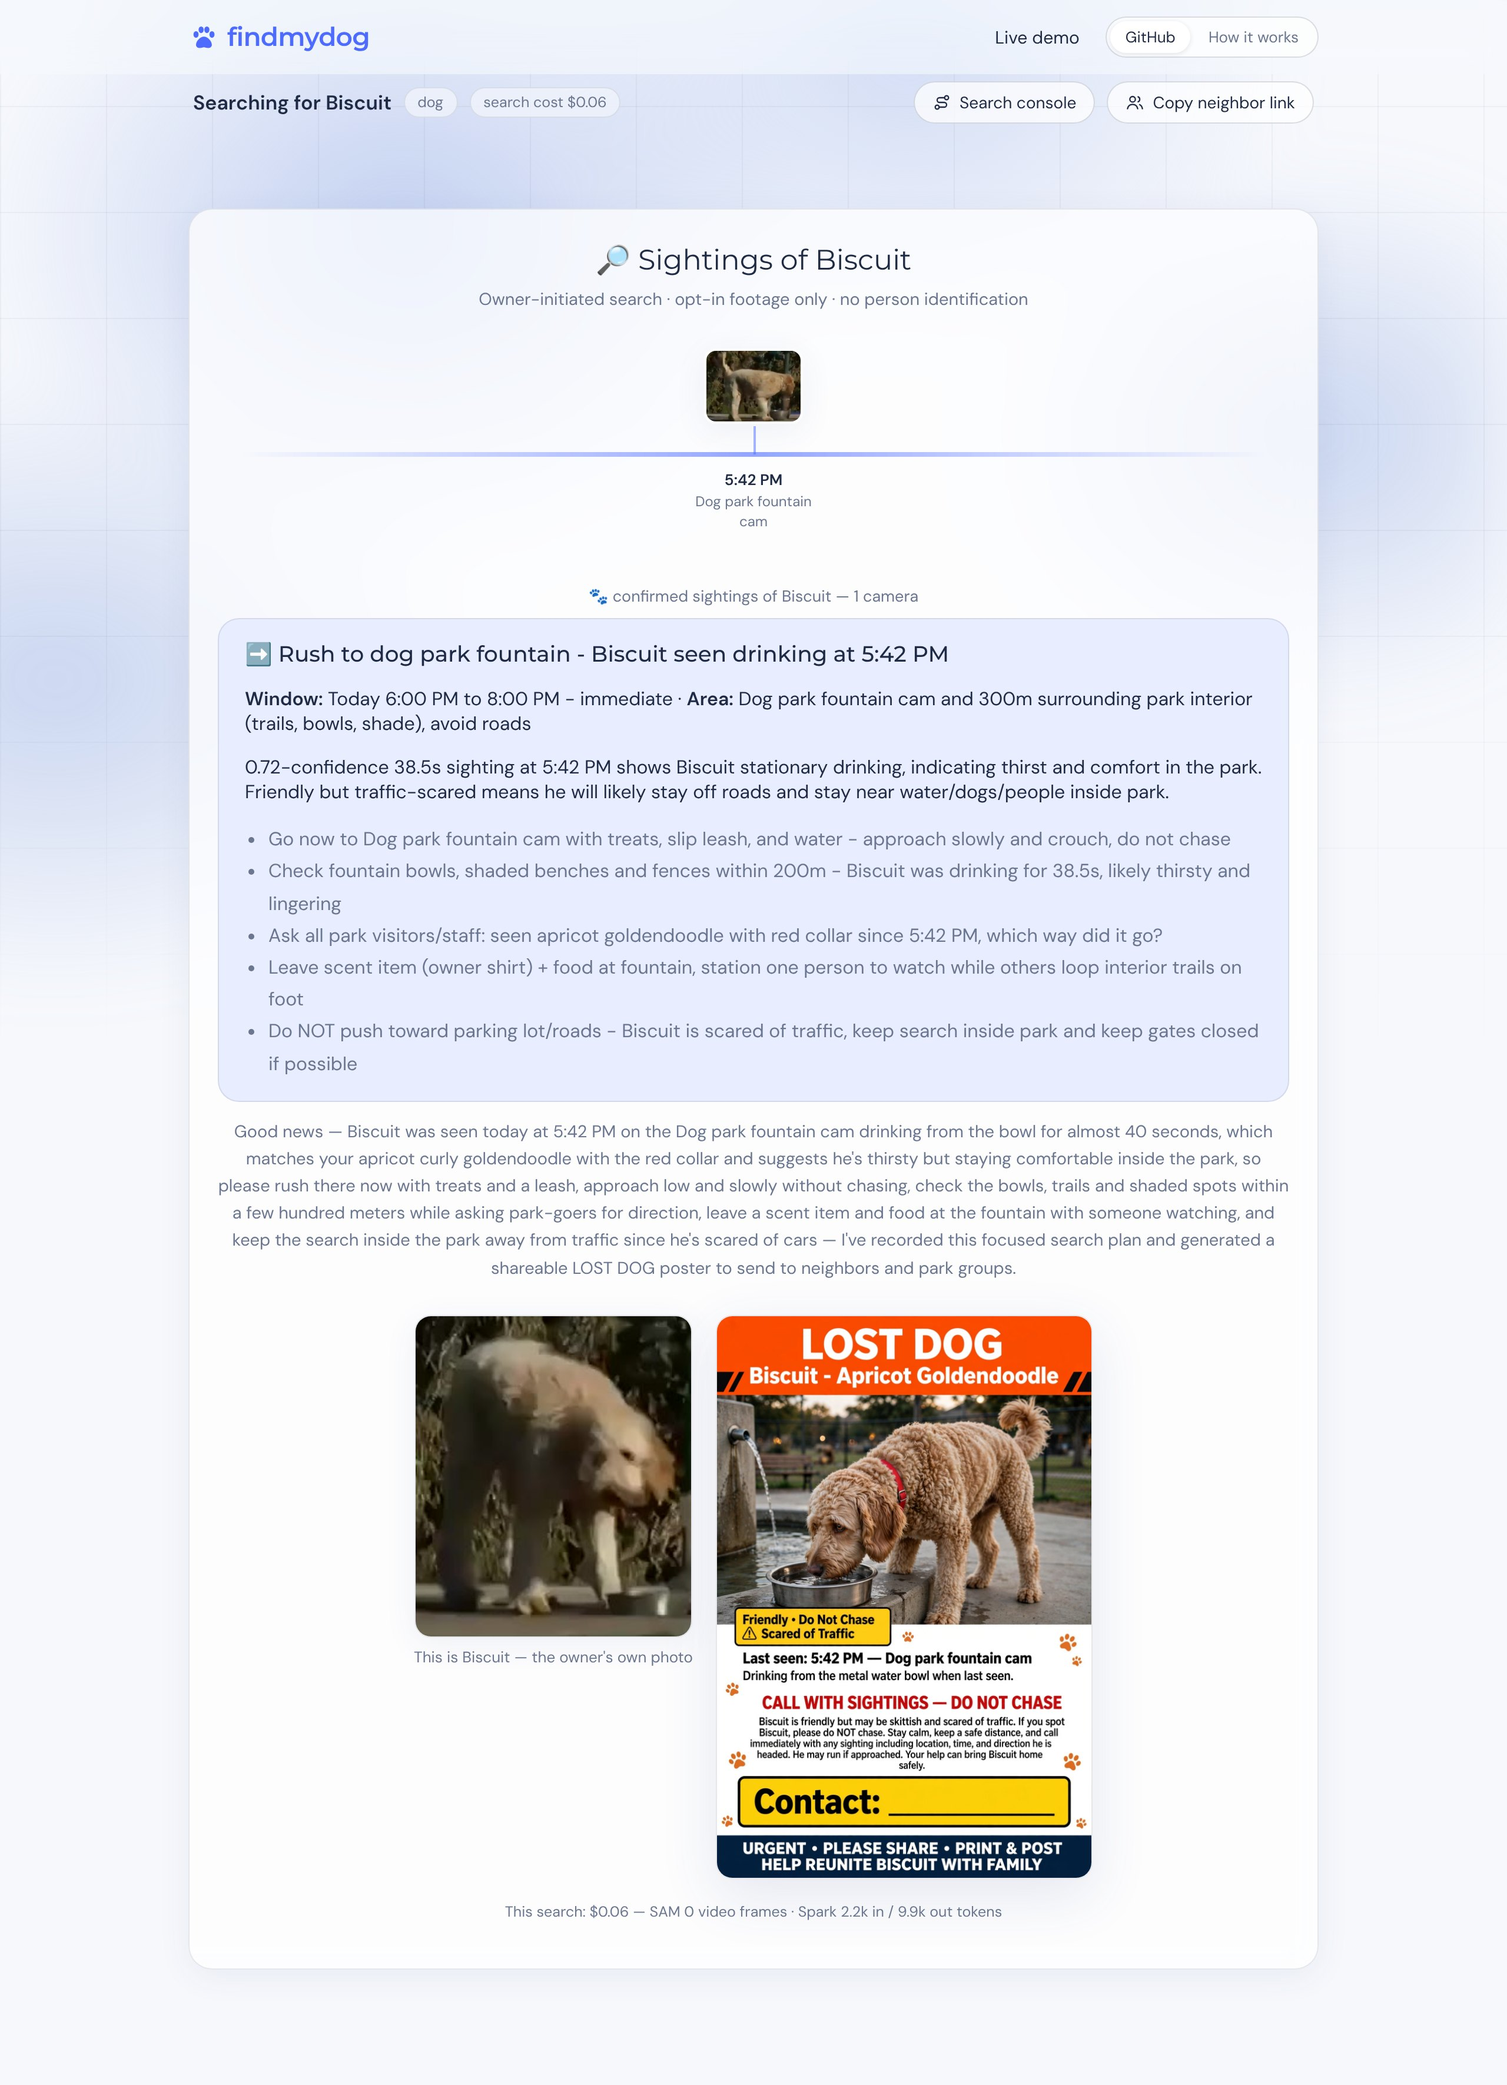
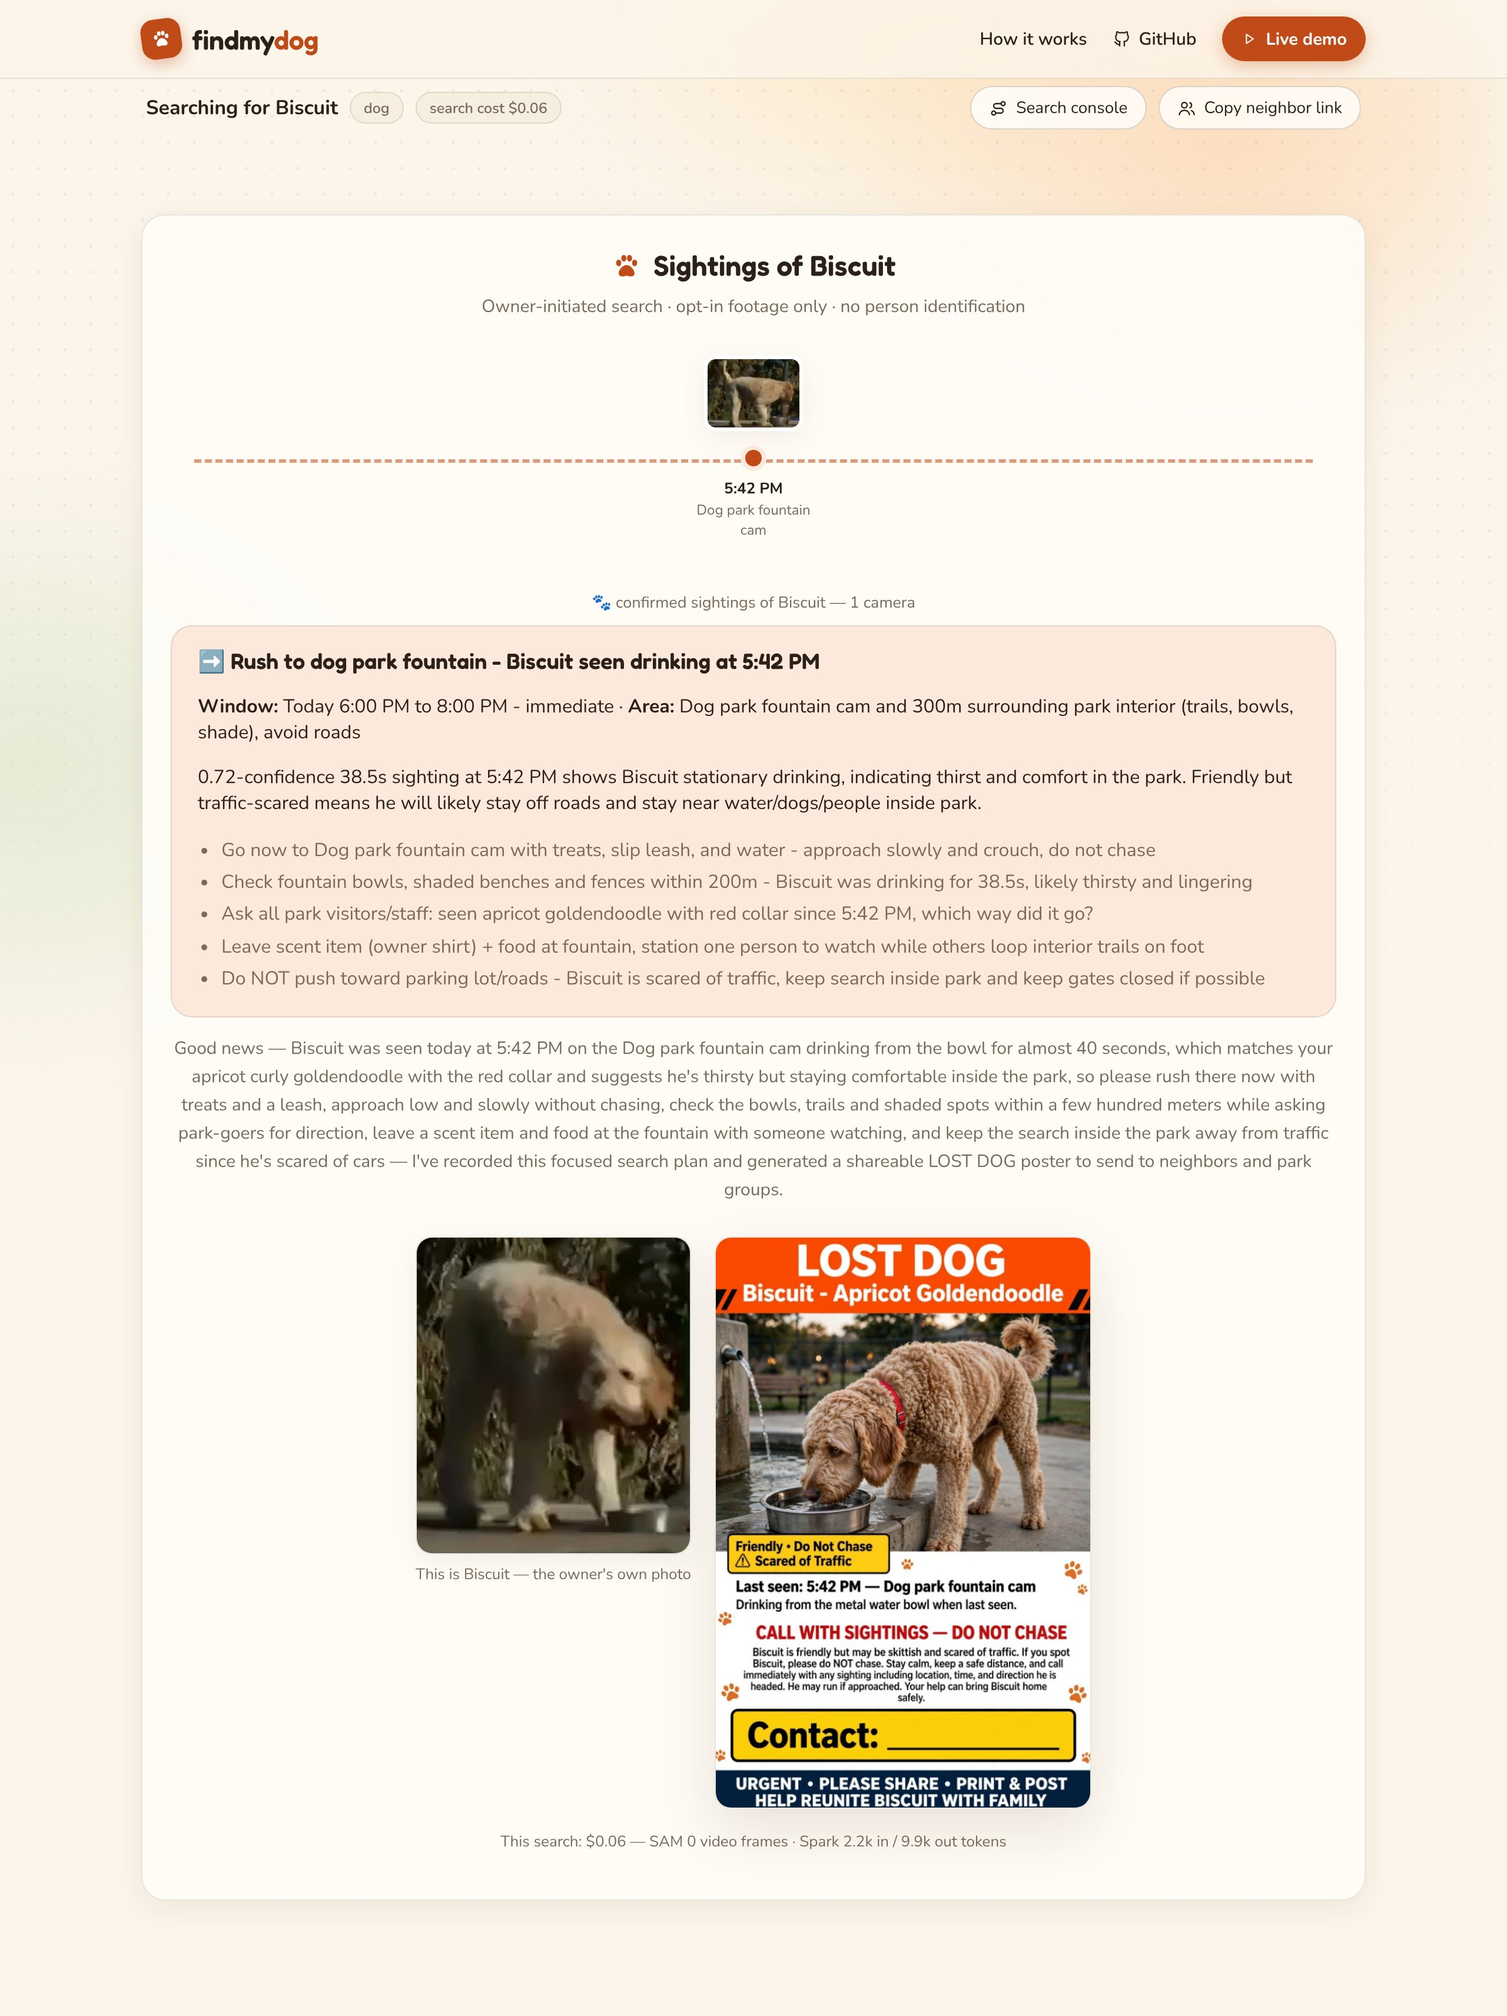
Evidence in the current UI: replay the recorded real run; README upgrades
- evidence/replay_real_ui.py loads the recorded real run (real_ui_state.json)
  into a local Worker with no model calls; capture_real_ui.cjs --replay
  re-photographs it. Replayed state matches the recording field for field.
- Re-captured real-00..04, the stranger view and the owner-vs-stranger
  comparison in the current UI. Images are the run's own: exact track
  frames, SAM's doorbell box (plate blurred), and the Muse Image poster cut
  from the original capture (evidence/img/replay/).
- README: pipeline diagram (Mermaid), "Designed for a worried owner" section
  with light/dark/phone views, a real/replayed/mock evidence key, and replay
  commands in the reproduce section. EVIDENCE and HANDOFF updated to match.

diff --git a/evidence/replay_real_ui.py b/evidence/replay_real_ui.py
@@ -1,0 +1,77 @@
+"""Replay the recorded real-model run through the current UI, without calling any model.
+
+The real run on 4 Nov (evidence/capture_real_ui.cjs against the live Meta API) saved its final report state to
+evidence/real_ui_state.json: SAM 3.1 tracks, all 7 Muse Spark verdicts with their rationales, the Spark plan and
+summary, and the metered cost. After the UI redesign, this script loads that recorded state, unchanged, into a
+local Worker so the same real outputs can be photographed in the current UI.
+
+Images used are the real ones from that run, already in this repo:
+  - track stills: evidence/img/crops/dogpark_<track>_<frame>.jpg (the exact frames the real run used; <= 180 px)
+  - doorbell still: evidence/img/replay/doorbell_t0_f34.jpg, frame 3.4 s inside SAM's box, cut from
+    evidence/img/sam-doorbell-detection.jpg (number plate blurred)
+  - pet photo: production/assets/owner_reference.jpg (frame t8_f335, as in the real run)
+  - poster: evidence/img/replay/muse-image-poster.png, the real run's Muse Image poster, cut from the original
+    plan screenshot (the full-size file was not kept)
+
+Only the owner's confirm/reject clicks are replayed through the UI; those call no model.
+
+    npx wrangler dev --local --port 8799 --var FMD_MOCK:1 &
+    python3 evidence/replay_real_ui.py <scratch_dir> http://localhost:8799
+    node evidence/capture_real_ui.cjs <scratch_dir> evidence/img --replay
+"""
+import copy, json, subprocess, sys, urllib.request
+
+SP, BASE = sys.argv[1], sys.argv[2]
+REC = json.load(open('evidence/real_ui_state.json'))
+boundary = 'fmdboundary'
+
+
+def multipart(fields, files):
+    body = b''
+    for k, v in fields.items():
+        body += f'--{boundary}\r\nContent-Disposition: form-data; name="{k}"\r\n\r\n{v}\r\n'.encode()
+    for k, (name, data, ctype) in files.items():
+        body += f'--{boundary}\r\nContent-Disposition: form-data; name="{k}"; filename="{name}"\r\nContent-Type: {ctype}\r\n\r\n'.encode() + data + b'\r\n'
+    return body + f'--{boundary}--\r\n'.encode()
+
+
+req = urllib.request.Request(f'{BASE}/api/reports', method='POST',
+    data=multipart({'pet_name': REC['pet']['name'], 'species': REC['pet']['species'], 'description': REC['pet']['description']},
+                   {'photo': ('biscuit.jpg', open('production/assets/owner_reference.jpg', 'rb').read(), 'image/jpeg')}),
+    headers={'Content-Type': f'multipart/form-data; boundary={boundary}'})
+rep = json.load(urllib.request.urlopen(req))
+json.dump(rep, open(f'{SP}/report.json', 'w'))
+rid, tok = rep['report_id'], rep['owner_token']
+
+
+def wr(*args):
+    return subprocess.run(['npx', 'wrangler', *args, '--local'], capture_output=True, text=True, check=True).stdout
+
+
+state = json.loads(json.loads(wr('d1', 'execute', 'findmydog', '--json', '--command', f"SELECT state FROM reports WHERE id='{rid}'"))[0]['results'][0]['state'])
+keep_photo = state['pet']['photo_key']
+new = copy.deepcopy(REC)
+new['report_id'], new['created_at'] = rid, state['created_at']
+new['pet']['photo_key'] = keep_photo
+for c in new['clips']:
+    c['media_url'] = f"{BASE}/api/reports/{rid}/clips/{c['clip_id']}"
+for m in new['matches']:
+    m['confirmed'] = None          # the owner's decisions are replayed through the UI
+new['poster_key'] = f'{rid}/poster'
+for k in ('photo_url', 'poster_url', 'demo'):
+    new.pop(k, None)
+open(f'{SP}/replay.sql', 'w').write(f"UPDATE reports SET state = '{json.dumps(new).replace(chr(39), chr(39) * 2)}' WHERE id = '{rid}';")
+wr('d1', 'execute', 'findmydog', '--file', f'{SP}/replay.sql')
+
+
+def put(cid, oid, path):
+    r = urllib.request.Request(f'{BASE}/api/reports/{rid}/stills/{cid}/{oid}', data=open(path, 'rb').read(), method='PUT', headers={'X-Owner-Token': tok})
+    return urllib.request.urlopen(r).status
+
+
+stills = {8: 't8_f351', 9: 't9_f383', 6: 't6_f241', 14: 't14_f572', 7: 't7_f308', 12: 't12_f442'}   # as in seed_real_report.py
+for oid, f in stills.items():
+    assert put('parkcam01', oid, f'evidence/img/crops/dogpark_{f}.jpg') == 200
+assert put('elmdoor01', 0, 'evidence/img/replay/doorbell_t0_f34.jpg') == 200
+wr('r2', 'object', 'put', f'findmydog-media/{rid}/poster', '--file', 'evidence/img/replay/muse-image-poster.png', '--content-type', 'image/png')
+print('replayed', rid)

diff --git a/README.md b/README.md
@@ -56,7 +56,7 @@
 
 ## Contents
 
-[The problem](#-the-problem) · [How it works](#-how-it-works) · [The Meta stack](#-the-meta-stack) · [See it run](#-see-it-run-on-real-models) · [Results](#-results) · [Privacy](#-privacy-and-access-control) · [Why not Ring?](#-why-not-just-ring-search-party) · [Architecture](#-architecture) · [Unit economics](#-unit-economics) · [Bugs we caught](#-bugs-the-evidence-exposed-all-fixed) · [Limitations](#-limitations-read-before-quoting-the-numbers) · [Run it](#-run-it) · [Reproduce](#-reproduce-every-number) · [Judging criteria](#-how-this-meets-the-judging-criteria) · [Author](#-author)
+[The problem](#-the-problem) · [How it works](#-how-it-works) · [The Meta stack](#-the-meta-stack) · [See it run](#-see-it-run-on-real-models) · [Design](#-designed-for-a-worried-owner) · [Results](#-results) · [Privacy](#-privacy-and-access-control) · [Why not Ring?](#-why-not-just-ring-search-party) · [Architecture](#-architecture) · [Unit economics](#-unit-economics) · [Bugs we caught](#-bugs-the-evidence-exposed-all-fixed) · [Limitations](#-limitations-read-before-quoting-the-numbers) · [Run it](#-run-it) · [Reproduce](#-reproduce-every-number) · [Judging criteria](#-how-this-meets-the-judging-criteria) · [Author](#-author)
 
 ---
 
@@ -83,6 +83,25 @@ past**. Nobody knows it yet, the clips are spread across a dozen brands, and nob
 | **6** | Spark tool loop | Reads the confirmed sightings, **decides** to call `suggest_next_search` (where to look next, and why) and `make_poster` (*Muse Image*). |
 | **7** | The street | Gets a **share page**: a sighting timeline, the next-search plan, the owner's real photo next to the generated poster, and the cost meter. |
 
+```mermaid
+flowchart LR
+  O([Owner: photo + description + voice note]) --> R[Report]
+  N([Neighbours: clips from any camera]) --> C[Clips]
+  R --> V[Muse Voice Transcribe<br/>search brief]
+  C --> S[SAM 3.1<br/>every animal, persistent IDs]
+  S --> M[Muse Spark<br/>verdict + reasons per track]
+  R -- photo + description --> M
+  V --> M
+  V -.-> T
+  M --> H{Owner confirms?}
+  H -- yes --> T[Spark tool loop]
+  H -- no --> X[Discarded]
+  T --> P[suggest_next_search<br/>where to look next]
+  T --> I[make_poster<br/>Muse Image]
+  P --> SH([Share page: timeline + plan + poster])
+  I --> SH
+```
+
 > **Output:** not a "possible match" ping, but an **evidence-linked sighting timeline, a concrete next-search plan, and a printable alert poster.**
 
 ## 🧠 The Meta stack
@@ -99,9 +118,13 @@ past**. Nobody knows it yet, the clips are spread across a dozen brands, and nob
 
 ## 🎬 See it run on real models
 
-Everything below was produced **live by SAM 3.1, Muse Spark and Muse Image through the product UI**
-([`capture_real_ui.cjs`](evidence/capture_real_ui.cjs)). Nothing is mocked. These four captures were taken on 4 Nov,
-before the UI moved to its current warm theme; the pipeline and its outputs are unchanged.
+Every verdict, rationale, plan and poster below was produced **live by SAM 3.1, Muse Spark and Muse Image** on
+4 Nov, through the product UI ([`capture_real_ui.cjs`](evidence/capture_real_ui.cjs)). Nothing is mocked.
+
+> **Shown in the current UI.** After the redesign, that recorded run ([`real_ui_state.json`](evidence/real_ui_state.json))
+> was replayed into a local Worker by [`replay_real_ui.py`](evidence/replay_real_ui.py), and the same capture script
+> photographed it. No model was called during the replay, and the outputs are unchanged: the replayed state matches the
+> recording field for field. Only the owner's confirm and reject clicks were made again.
 
 <table>
 <tr>
@@ -141,6 +164,19 @@ before the UI moved to its current warm theme; the pipeline and its outputs are 
 Full console: [`real-00-console-full.jpg`](evidence/img/real-00-console-full.jpg) · final report state:
 [`real_ui_state.json`](evidence/real_ui_state.json) · per-run numbers: [`benchmark-summary.txt`](evidence/logs/benchmark-summary.txt)
 
+## 🎨 Designed for a worried owner
+
+The report form is a **lost-pet poster**: a photo slot, the pet's name, species, a description and a voice note, then
+one button. Every tracked animal keeps **one colour across the whole search**, in the style of SAM's own mask
+overlays, so "track #8" in the footage is the same pink card in the match list. Light and dark modes and phone
+layouts are built in, and buttons meet WCAG AA contrast.
+
+| Light | Dark | Phone |
+|---|---|---|
+| <img src="evidence/img/app-landing-light.jpg" alt="Landing page, light mode"> | <img src="evidence/img/app-landing-dark.jpg" alt="Landing page, dark mode"> | <img src="evidence/img/app-landing-phone.png" alt="Landing page on a phone" width="200"> |
+
+<img src="evidence/img/app-how-it-works.jpg" alt="How it works: four numbered steps, with SAM-style coloured track chips on the SAM step">
+
 ## 📊 Results
 
 Measured on **4 Nov 2026** against the **live Meta API** using **the production code path**:
@@ -148,6 +184,14 @@ Measured on **4 Nov 2026** against the **live Meta API** using **the production 
 prompts ([`prompts.ts`](worker/src/prompts.ts)) and model clients ([`meta.ts`](worker/src/meta.ts)). Charts are
 generated from the raw JSON by [`evidence/build.py`](evidence/build.py). **No number is typed in by hand.**
 Full write-up with every chart: **[EVIDENCE.md](EVIDENCE.md)**.
+
+**How to read the evidence:**
+
+| Label | Meaning |
+|---|---|
+| **Real** | Live Meta API through the production code path. All numbers, verdicts, plans and posters in this README |
+| **Replayed** | A recorded real run shown again in the current UI, with no model calls ([`replay_real_ui.py`](evidence/replay_real_ui.py)) |
+| **Mock** | Deterministic simulation (`FMD_MOCK=1`), used for CI's end-to-end test and the landing-page screenshots (which show no model output). Never used for a quality number |
 
 ### 1. Matching: does the owner see the right animal first?
 
@@ -425,6 +469,11 @@ npx wrangler dev --port 8788 --local &
 python3 evidence/seed_real_report.py /tmp http://localhost:8788
 node evidence/capture_real_ui.cjs /tmp evidence/img
 bash evidence/access_checks.sh http://localhost:8788 <report_id> <owner_token> <DEMO_REPORT_ID>
+
+# Re-photograph the recorded real run in the current UI (no model calls)
+npx wrangler dev --local --port 8799 --var FMD_MOCK:1 &
+python3 evidence/replay_real_ui.py /tmp http://localhost:8799
+APP=http://localhost:8799 node evidence/capture_real_ui.cjs /tmp evidence/img --replay
 
 # Charts, CSVs and screenshots
 python3 evidence/build.py && node evidence/shoot.cjs http://localhost:8788 && python3 evidence/compose.py

diff --git a/EVIDENCE.md b/EVIDENCE.md
@@ -87,8 +87,12 @@ All tracks: [`evidence/data/sam_tracks.csv`](evidence/data/sam_tracks.csv) · ra
 A real-mode local Worker with SAM 3.1 tracks from §2 seeded into a report (SAM needs a public video URL that a laptop
 doesn't have; see [`evidence/seed_real_report.py`](evidence/seed_real_report.py)). Everything below was generated live
 by Muse Spark and Muse Image through the UI ([`evidence/capture_real_ui.cjs`](evidence/capture_real_ui.cjs)).
-These captures, and the owner-vs-stranger comparison in §4, predate the move to the current warm UI theme; the landing-page
-screenshots in §4 show the current design. The pipeline and its outputs are unchanged.
+After the UI redesign, that recorded run ([`real_ui_state.json`](evidence/real_ui_state.json)) was replayed into a local
+Worker by [`replay_real_ui.py`](evidence/replay_real_ui.py) and photographed again with the same script (`--replay`), so
+these captures show the current UI. No model was called during the replay. The replayed state matches the recording
+field for field (verdicts, scores, rationales, owner decisions, plan, summary, tracks, cost). The images are the run's own:
+the exact track frames, SAM's doorbell box, and the Muse Image poster cut from the original capture
+([`evidence/img/replay/`](evidence/img/replay)).
 
 **Footage in, SAM tracks out:**
 
@@ -214,6 +218,11 @@ python3 eval/degrade.py
 for c in night_ir low_res motion_blur dark worst_case; do
   node eval/benchmark.ts match --cases eval/fixtures/cases_$c.json --trials 1 --out eval/results/robust_$c.json
 done
+
+# after the UI redesign: re-photograph the recorded real run in the current UI (no model calls)
+npx wrangler dev --local --port 8799 --var FMD_MOCK:1 &
+python3 evidence/replay_real_ui.py /tmp http://localhost:8799
+APP=http://localhost:8799 node evidence/capture_real_ui.cjs /tmp evidence/img --replay
 
 python3 evidence/build.py && node evidence/shoot.cjs http://localhost:8788 && python3 evidence/compose.py
 ```

diff --git a/HANDOFF.md b/HANDOFF.md
@@ -10,7 +10,7 @@ Written 4 Nov 2026, ~19:00 GMT. Everything needed to finish is in this repo.
 |---|---|
 | Product code (`worker/`, `web/`) | Done, on `main`. 12/12 unit tests, mock E2E pass. Includes owner-token access model, read-only demo, SAM Files-API fallback for non-public clip URLs. |
 | Production deploy | **Done (18:56 GMT).** Real mode (`"mock":false`), new bundle live, demo report returns 403 on writes, and `node eval/e2e.ts https://find-my-dog.kiritokris.workers.dev` passes in **real mode** (`evidence/logs/e2e-production.txt`). |
-| UI redesign (4 Nov, ~23:00 GMT) | Warm pet theme (cream, terracotta, Fredoka/Nunito, MISSING-poster report form) with SAM-style per-track colours on the report page. On `main`; **needs `npm run deploy`** to go live. Landing screenshots in `evidence/img/app-*` are recaptured; the real-model UI captures (`real-0*`, owner-vs-stranger) predate it. The films show the previous blue UI. |
+| UI redesign (4 Nov, ~23:00 GMT) | Warm pet theme (cream, terracotta, Fredoka/Nunito, MISSING-poster report form) with SAM-style per-track colours on the report page. On `main`; **needs `npm run deploy`** to go live. Landing screenshots in `evidence/img/app-*` are recaptured; the real-model UI captures (`real-0*`, owner-vs-stranger) were replayed from `evidence/real_ui_state.json` into the new UI (`evidence/replay_real_ui.py`, no model calls). The films show the previous blue UI. |
 | Evidence (`EVIDENCE.md`, `evidence/`, `eval/results/`) | Done: benchmarks, charts, real-UI screenshots, logs, manifest. |
 | Film 1 "The Proof" (120 s) | **v2 delivered to Kris** (passes every QA check: real-style cursor, voice-first mix, 12-test panel). Recorded on a local Worker; optional production re-shoot is P2. |
 | Film 2 "Engineering Evidence" (240 s) | **Final delivered to Kris** (passes every QA check). |
